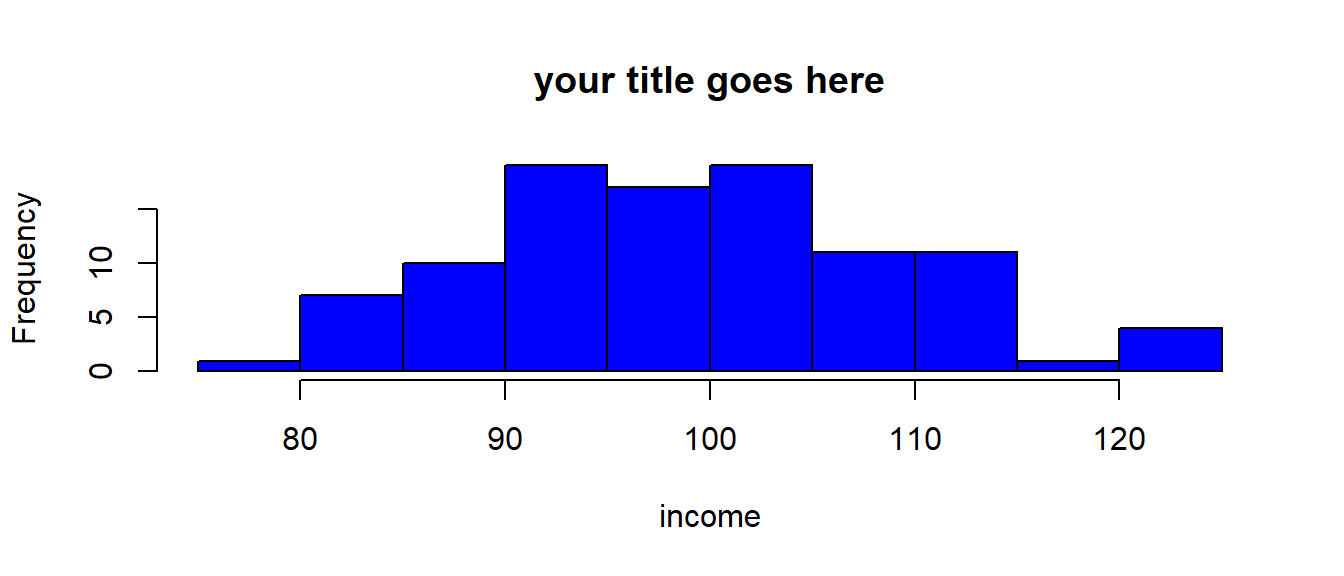
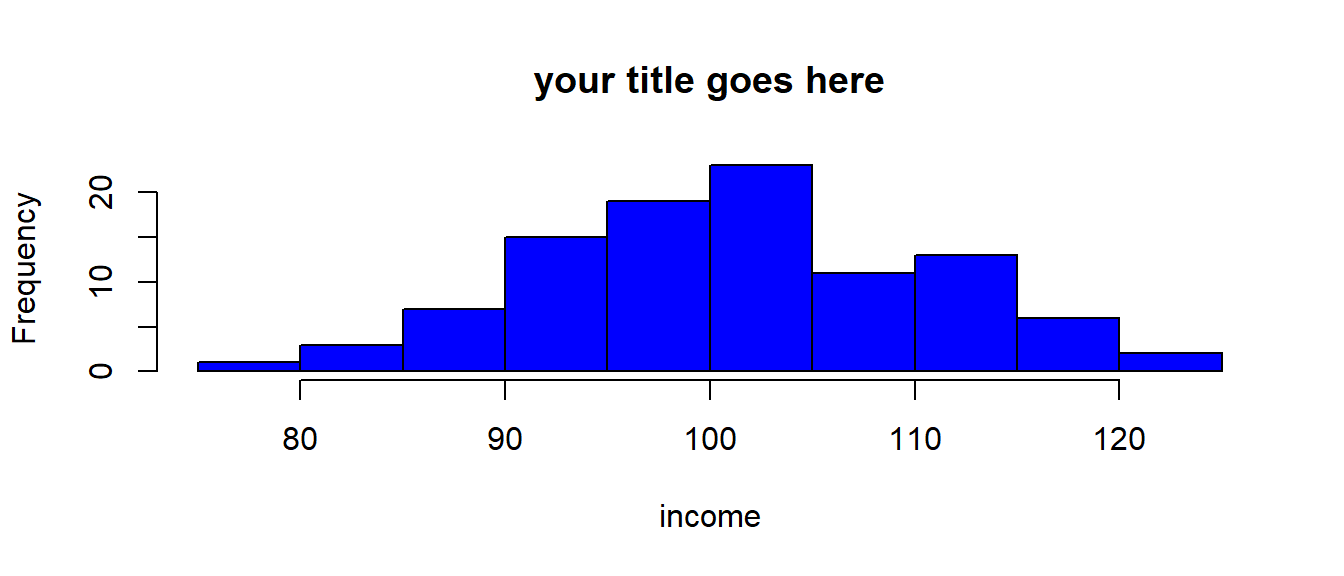
rebuild

diff --git a/quick-intro-R/quick-intro-R.html b/quick-intro-R/quick-intro-R.html
@@ -318,13 +318,13 @@ Tip
 <div class="sourceCode cell-code" id="cb7"><pre class="sourceCode r code-with-copy"><code class="sourceCode r"><span id="cb7-1"><a href="#cb7-1" aria-hidden="true" tabindex="-1"></a><span class="fu">summary</span>(mydata<span class="sc">$</span>x) <span class="co"># for continuous or factor variables</span></span></code><button title="Copy to Clipboard" class="code-copy-button"><i class="bi"></i></button></pre></div>
 <div class="cell-output cell-output-stdout">
 <pre><code>   Min. 1st Qu.  Median    Mean 3rd Qu.    Max. 
-  78.35   92.09   98.70   99.12  105.62  122.75 </code></pre>
+  78.43   94.24  100.81  100.92  106.66  124.68 </code></pre>
 </div>
 <div class="sourceCode cell-code" id="cb9"><pre class="sourceCode r code-with-copy"><code class="sourceCode r"><span id="cb9-1"><a href="#cb9-1" aria-hidden="true" tabindex="-1"></a><span class="fu">table</span>(mydata<span class="sc">$</span>z) <span class="co"># especially suitable for factor variables</span></span></code><button title="Copy to Clipboard" class="code-copy-button"><i class="bi"></i></button></pre></div>
 <div class="cell-output cell-output-stdout">
 <pre><code>
  1  2 
-69 31 </code></pre>
+76 24 </code></pre>
 </div>
 </div>
 <p>For another approach to summarizing your data, try:</p>
